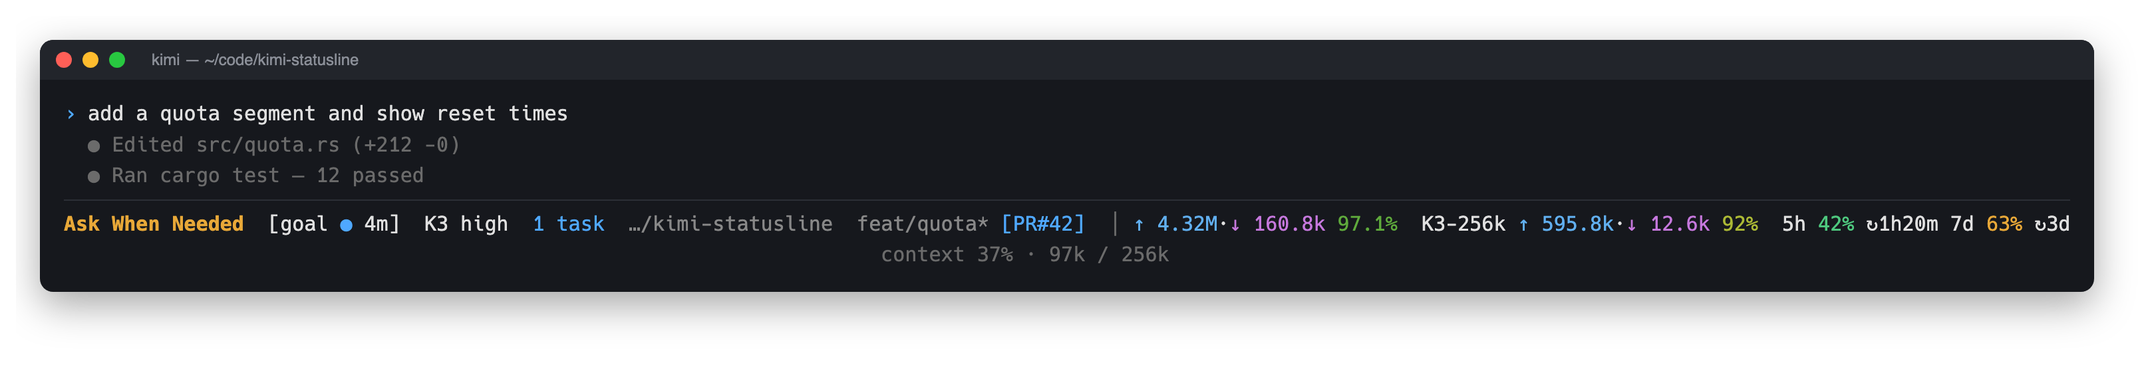
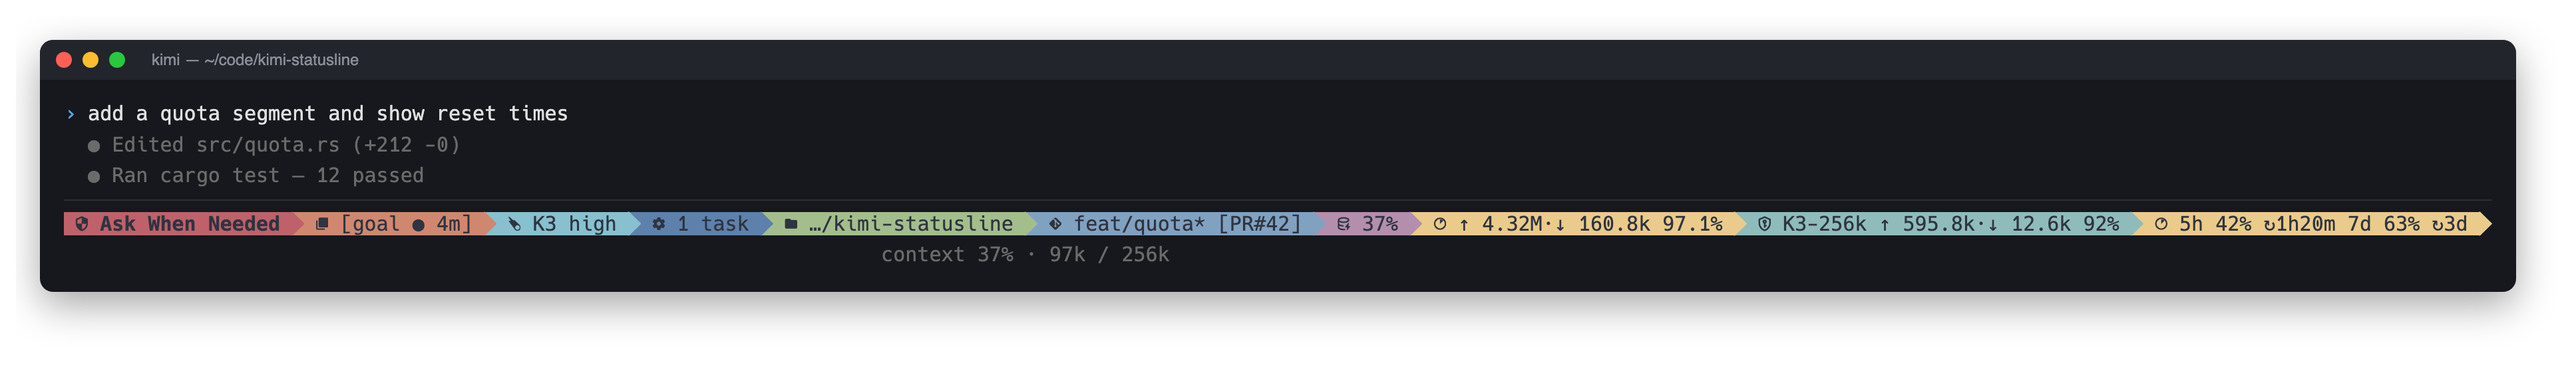
docs: nord theme for the hero screenshot

diff --git a/scripts/screenshots.py b/scripts/screenshots.py
@@ -229,7 +229,7 @@ def main():
     os.makedirs(ASSETS, exist_ok=True)
     home = setup_home()
     try:
-        hero = ansi_to_html(render(home, "kimi", 205), "#e0e0e0")
+        hero = ansi_to_html(render(home, "nord", 205), "#e0e0e0")
         shoot(page(kimi_footer(hero), "kimi — ~/code/kimi-statusline", minw=1180), "hero.png", 2400)
 
         rows = []
